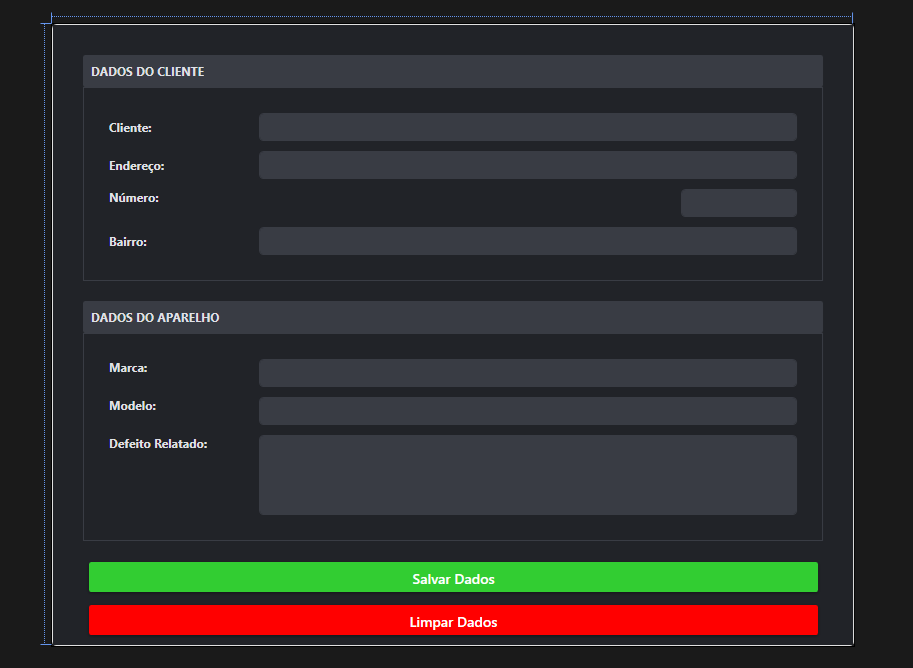
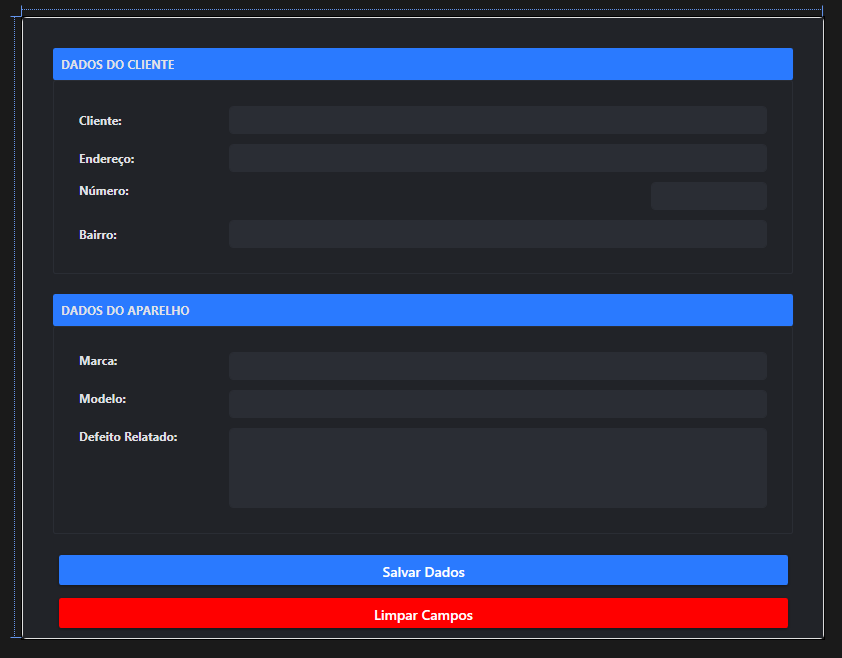
Aprimora visual e UX: cores, textos e limpeza de campos
Atualiza paleta para tons escuros e azul, melhora consistência visual nos backgrounds, bordas e DataGrid. Renomeia e implementa evento de limpeza de campos no Cadastro. Ajusta textos e alinhamento dos botões do menu lateral e colunas do DataGrid. Imagens agora usam Stretch="UniformToFill". Refatora estilos e bordas para maior uniformidade.

diff --git a/Codev_V2/Codev_V2/MainWindow.xaml b/Codev_V2/Codev_V2/MainWindow.xaml
@@ -15,7 +15,7 @@
         mc:Ignorable="d"
         Opacity="10"
         Title="MainWindow" Height="720" Width="1080" Loaded="Window_Loaded">
-    <Border Background="#212328" CornerRadius="10" BorderThickness="1" BorderBrush="#FF393A3A">
+    <Border Background="#212328" CornerRadius="10" BorderThickness="1" BorderBrush="#2A2D34">
         <Grid>
             <Grid.ColumnDefinitions>
                 <ColumnDefinition Width="220"/>
@@ -26,38 +26,39 @@
             <!-- SIDEBAR -->
             <Border Grid.Column="0" Background="#2A7AFF" CornerRadius="10,0,0,10" Margin="-1,-1,1,-1" BorderBrush="#FF220086">
                 <StackPanel Margin="14,184,10,16">
-                    <Button Style="{StaticResource MenuButtonNoHover}" Click="Inicio_Click">
+                    <Button Style="{StaticResource MenuButtonNoHover}" Click="Inicio_Click" Background="{x:Null}">
                         <StackPanel Orientation="Horizontal">
                             <materialDesign:PackIcon Kind="Home" Width="22" Height="22" Foreground="#E0E1E6" Margin="0,0,10,0"/>
-                            <TextBlock Text="Tela Inicial" VerticalAlignment="Center" FontWeight="SemiBold"/>
+                            <TextBlock Text="Página Inicial" VerticalAlignment="Center" FontWeight="SemiBold"/>
                         </StackPanel>
                     </Button>
-                    <Button Style="{StaticResource MenuButtonNoHover}" Click="Conta_Click" Margin="0,8,0,0">
+                    <Button Style="{StaticResource MenuButtonNoHover}" Click="Conta_Click" Margin="0,8,0,0" Background="{x:Null}">
                         <StackPanel Orientation="Horizontal">
                             <materialDesign:PackIcon Kind="Account" Width="22" Height="22" Foreground="#E0E1E6" Margin="0,0,10,0" FontWeight="SemiBold"/>
-                            <TextBlock Text="Cadastrar" VerticalAlignment="Center" FontWeight="SemiBold"/>
+                            <TextBlock Text="Cadastrar Clientes
+                                       " VerticalAlignment="Center" FontWeight="SemiBold" Width="100"/>
                         </StackPanel>
                     </Button>
-                    <Button Style="{StaticResource MenuButtonNoHover}" Click="Clientes_Click" Margin="0,8,0,0">
+                    <Button Style="{StaticResource MenuButtonNoHover}" Click="Clientes_Click" Margin="0,8,0,0" Background="{x:Null}">
                         <StackPanel Orientation="Horizontal">
                             <materialDesign:PackIcon Kind="Store" Width="22" Height="22" Foreground="#E0E1E6" Margin="0,0,10,0" FontWeight="SemiBold"/>
-                            <TextBlock Text="Clientes" VerticalAlignment="Center" FontWeight="SemiBold"/>
+                            <TextBlock Text="Clientes Ativos" VerticalAlignment="Center" FontWeight="SemiBold"/>
                         </StackPanel>
                     </Button>
-                    <Button Style="{StaticResource MenuButtonNoHover}" Click="Sobre_Click" Margin="0,8,0,0">
+                    <Button Style="{StaticResource MenuButtonNoHover}" Click="Sobre_Click" Margin="0,8,0,0" Background="{x:Null}">
                         <StackPanel Orientation="Horizontal">
                             <materialDesign:PackIcon Kind="InformationOutline" Width="22" Height="22" Foreground="#E0E1E6" Margin="0,0,10,0" FontWeight="SemiBold"/>
-                            <TextBlock Text="Sobre" VerticalAlignment="Center" FontWeight="SemiBold"/>
+                            <TextBlock Text="Sobre Nós" VerticalAlignment="Center" FontWeight="SemiBold"/>
                         </StackPanel>
                     </Button>
                 </StackPanel>
             </Border>
-            <Button Grid.Column="1" x:Name="Fechar" Content="✖" HorizontalAlignment="Right" VerticalAlignment="Top" Background="Transparent" BorderBrush="Transparent" Foreground="#6B6C6F" Click="Fechar_Click" Height="50" Width="50" RenderTransformOrigin="-0.475,0.55" Margin="0,-1,-1,0"/>
-            <Image HorizontalAlignment="Left" Height="130" Margin="39,23,0,0" VerticalAlignment="Top" Width="130" Source="/logo_dashbord.png" RenderOptions.BitmapScalingMode="HighQuality" UseLayoutRounding="True"/>
-            <Button Style="{StaticResource MenuButtonNoHover}" Click="Logout_Click" FocusVisualStyle="{x:Null}" Cursor="Hand" Margin="13,659,11,19">
+            <Button Grid.Column="1" x:Name="Fechar" Content="✖" HorizontalAlignment="Right" VerticalAlignment="Top" Background="Transparent" BorderBrush="Transparent" Foreground="#6B6C6F" Click="Fechar_Click" Height="50" Width="50" Margin="0,-1,-1,0"/>
+            <Image HorizontalAlignment="Left" Height="130" Margin="39,23,0,0" VerticalAlignment="Top" Width="130" Source="/logo_dashbord.png" RenderOptions.BitmapScalingMode="HighQuality" Stretch="UniformToFill"/>
+            <Button Style="{StaticResource MenuButtonNoHover}" Click="Logout_Click" FocusVisualStyle="{x:Null}" Cursor="Hand" Margin="13,659,11,19" Background="{x:Null}">
                 <StackPanel Orientation="Horizontal">
                     <materialDesign:PackIcon Kind="Logout" Width="22" Height="22" Foreground="WhiteSmoke" Margin="0,0,10,0"/>
-                    <TextBlock Text="Sair" VerticalAlignment="Center" FontWeight="SemiBold"/>
+                    <TextBlock Text="Logout" VerticalAlignment="Center" FontWeight="SemiBold"/>
                 </StackPanel>
             </Button>
         </Grid>

diff --git a/Codev_V2/Codev_V2/Páginas/Cadastro.xaml b/Codev_V2/Codev_V2/Páginas/Cadastro.xaml
@@ -34,16 +34,16 @@
                     </Grid.RowDefinitions>
                     <!-- Nome -->
                     <TextBlock Text="Cliente:" Grid.Row="0" Grid.Column="0" VerticalAlignment="Center"/>
-                    <hc:TextBox x:Name="Clientes_" Grid.Row="0" Grid.Column="1" BorderBrush="#393C44" Background="#393C44" Foreground="#E0E1E6" CaretBrush="{x:Null}"/>
+                    <hc:TextBox x:Name="Clientes_" Grid.Row="0" Grid.Column="1" BorderBrush="#2A2D34" Background="#2A2D34" Foreground="#E0E1E6" CaretBrush="{x:Null}"/>
                     <!-- Endereço -->
                     <TextBlock Text="Endereço:" Grid.Row="2" Grid.Column="0" VerticalAlignment="Center"/>
-                    <hc:TextBox x:Name="Endereço_" Grid.Row="2" Grid.Column="1" BorderBrush="#393C44" Background="#393C44" Foreground="#E0E1E6" CaretBrush="{x:Null}"/>
+                    <hc:TextBox x:Name="Endereço_" Grid.Row="2" Grid.Column="1" BorderBrush="#2A2D34" Background="#2A2D34" Foreground="#E0E1E6" CaretBrush="{x:Null}"/>
                     <!-- Número -->
                     <TextBlock Text="Número:" Grid.Row="4" Grid.Column="0" VerticalAlignment="Center" Foreground="#E0E1E6"/>
-                    <hc:TextBox  x:Name="Número_" Grid.Row="4" Grid.Column="1" BorderBrush="#393C44" Background="#393C44" Margin="422,0,0,10" Grid.RowSpan="2" Foreground="#E0E1E6" CaretBrush="{x:Null}"/>
+                    <hc:TextBox  x:Name="Número_" Grid.Row="4" Grid.Column="1" BorderBrush="#2A2D34" Background="#2A2D34" Margin="422,0,0,10" Grid.RowSpan="2" Foreground="#E0E1E6" CaretBrush="{x:Null}"/>
                     <!-- Bairro -->
                     <TextBlock Text="Bairro:" Grid.Row="6" Grid.Column="0" VerticalAlignment="Center"/>
-                    <hc:TextBox x:Name="Bairro_" Grid.Row="6" Grid.Column="1" BorderBrush="#393C44" Background="#393C44" Foreground="#E0E1E6" CaretBrush="{x:Null}"/>
+                    <hc:TextBox x:Name="Bairro_" Grid.Row="6" Grid.Column="1" BorderBrush="#2A2D34" Background="#2A2D34" Foreground="#E0E1E6" CaretBrush="{x:Null}"/>
                 </Grid>
             </GroupBox>
             <!-- BLOCO APARELHO -->
@@ -63,17 +63,17 @@
                     </Grid.RowDefinitions>
                     <!-- Marca -->
                     <TextBlock Text="Marca:" Grid.Column="0" VerticalAlignment="Center"/>
-                    <hc:TextBox x:Name="Marca_" Grid.Row="0" Grid.Column="1" BorderBrush="#393C44" Background="#393C44" Grid.ColumnSpan="2" Margin="0,0,0,10" Grid.RowSpan="2" Foreground="#E0E1E6" CaretBrush="{x:Null}"/>
+                    <hc:TextBox x:Name="Marca_" Grid.Row="0" Grid.Column="1" BorderBrush="#2A2D34" Background="#2A2D34" Grid.ColumnSpan="2" Margin="0,0,0,10" Grid.RowSpan="2" Foreground="#E0E1E6" CaretBrush="{x:Null}"/>
                     <!-- Modelo -->
                     <TextBlock Text="Modelo:" Grid.Row="2" Grid.Column="0" VerticalAlignment="Center"/>
-                    <hc:TextBox x:Name="Modelo_" Grid.Row="2" Grid.Column="1" BorderBrush="#393C44" Background="#393C44" Grid.ColumnSpan="2" Margin="0,0,0,10" Grid.RowSpan="2" Foreground="#E0E1E6" CaretBrush="{x:Null}"/>
+                    <hc:TextBox x:Name="Modelo_" Grid.Row="2" Grid.Column="1" BorderBrush="#2A2D34" Background="#2A2D34" Grid.ColumnSpan="2" Margin="0,0,0,10" Grid.RowSpan="2" Foreground="#E0E1E6" CaretBrush="{x:Null}"/>
                     <!-- Defeito -->
                     <TextBlock Text="Defeito Relatado:" Grid.Row="4" Grid.Column="0" VerticalAlignment="Top"/>
-                    <hc:TextBox x:Name="Defeito_" Grid.Row="4" Grid.Column="1" Height="80" AcceptsReturn="True" TextWrapping="Wrap" BorderBrush="#393C44" Background="#393C44" Grid.ColumnSpan="2" Foreground="#E0E1E6" CaretBrush="{x:Null}"/>
+                    <hc:TextBox x:Name="Defeito_" Grid.Row="4" Grid.Column="1" Height="80" AcceptsReturn="True" TextWrapping="Wrap" BorderBrush="#2A2D34" Background="#2A2D34" Grid.ColumnSpan="2" Foreground="#E0E1E6" CaretBrush="{x:Null}"/>
                 </Grid>
             </GroupBox>
-            <Button x:Name="Salvar_" Content="Salvar Dados" VerticalAlignment="Top" Height="30" Background="LimeGreen"  BorderThickness="0,0,0,0" Foreground="White" FontWeight="SemiBold" Margin="6,262,5,0" Grid.Row="2" Click="Salvar__Click"/>
-            <Button x:Name="Limpar_" Content="Limpar Dados" VerticalAlignment="Top" Height="30" Background="Red"  BorderThickness="0,0,0,0" Foreground="White" FontWeight="SemiBold" Margin="6,305,5,0" Grid.Row="2"/>
+            <Button x:Name="Salvar_" Content="Salvar Dados" VerticalAlignment="Top" Height="30" Background="#2A7AFF"  BorderThickness="0,0,0,0" Foreground="White" FontWeight="SemiBold" Margin="6,262,5,0" Grid.Row="2" Click="Salvar__Click"/>
+            <Button x:Name="Limpar_" Content="Limpar Campos" VerticalAlignment="Top" Height="30" Background="Red"  BorderThickness="0,0,0,0" Foreground="White" FontWeight="SemiBold" Margin="6,305,5,0" Grid.Row="2" Click="Limpar__Click"/>
         </Grid>
     </Grid>
 </Page>

diff --git a/Codev_V2/Codev_V2/App.xaml b/Codev_V2/Codev_V2/App.xaml
@@ -12,37 +12,36 @@
                 <Setter Property="BorderThickness" Value="0"/>
                 <Style.Triggers>
                     <Trigger Property="IsSelected" Value="True">
-                        <Setter Property="Background" Value="#2A7AFF"/>
+                        <Setter Property="Background" Value="#393C44"/>
                         <Setter Property="Foreground" Value="White"/>
                     </Trigger>
                 </Style.Triggers>
             </Style>
             <Style TargetType="DataGrid">
-    <Setter Property="Background" Value="#212328"/>
-    <Setter Property="Foreground" Value="#E0E1E6"/>
-    <Setter Property="BorderBrush" Value="#393C44"/>
-    <Setter Property="RowBackground" Value="#212328"/>
-    <Setter Property="AlternatingRowBackground" Value="#2A2D34"/>
-    <Setter Property="GridLinesVisibility" Value="None"/>
-    <Setter Property="HorizontalGridLinesBrush" Value="#393C44"/>
-    <Setter Property="VerticalGridLinesBrush" Value="#393C44"/>
-    <Setter Property="HorizontalContentAlignment" Value="Right"/>
-</Style>
-<Style TargetType="DataGridColumnHeader">
-        <Setter Property="Background" Value="#2A2D34"/>
-        <Setter Property="Foreground" Value="#E0E1E6"/>
-        <Setter Property="BorderBrush" Value="#393C44"/>
-        <Setter Property="FontWeight" Value="SemiBold"/>
-        </Style>
+                <Setter Property="Background" Value="#2A7AFF"/>
+                <Setter Property="Foreground" Value="#E0E1E6"/>
+                <Setter Property="BorderBrush" Value="Transparent"/>
+                <Setter Property="RowBackground" Value="#212328"/>
+                <Setter Property="AlternatingRowBackground" Value="#2A2D34"/>
+                <Setter Property="GridLinesVisibility" Value="None"/>
+                <Setter Property="HorizontalGridLinesBrush" Value="#2A2D34"/>
+                <Setter Property="VerticalGridLinesBrush" Value="#2A2D34"/>
+            </Style>
+            <Style TargetType="DataGridColumnHeader">
+                <Setter Property="Background" Value="#2A7AFF"/>
+                <Setter Property="Foreground" Value="#E0E1E6"/>
+                <Setter Property="BorderBrush" Value="#2A2D34"/>
+                <Setter Property="FontWeight" Value="SemiBold"/>
+            </Style>
             <Style TargetType="DataGridRow">
                 <Setter Property="Background" Value="#212328"/>
                 <Setter Property="Foreground" Value="#E0E1E6"/>
                 <Style.Triggers>
                     <Trigger Property="IsMouseOver" Value="True">
-                        <Setter Property="Background" Value="#2A2D34"/>
+                        <Setter Property="Background" Value="#393C44"/>
                     </Trigger>
                     <Trigger Property="IsMouseOver" Value="True">
-                        <Setter Property="Background" Value="#2A2D34"/>
+                        <Setter Property="Background" Value="#393C44"/>
                     </Trigger>
                     <Trigger Property="IsSelected" Value="True">
                         <Setter Property="Background" Value="#393C44"/>
@@ -63,15 +62,15 @@
                                     <RowDefinition Height="Auto"/>
                                     <RowDefinition Height="*"/>
                                 </Grid.RowDefinitions>
-                                <Border Background="#393C44"
+                                <Border Background="#2A7AFF"
                                 Padding="8"
                                 CornerRadius="2">
                                     <ContentPresenter ContentSource="Header"/>
                                 </Border>
                                 <Border Grid.Row="1"
-                                BorderBrush="#393C44"
+                                BorderBrush="#2A2D34"
                                 BorderThickness="1"
-                                Padding="10">
+                                Padding="10" CornerRadius="2">
                                     <ContentPresenter/>
                                 </Border>
                             </Grid>
@@ -81,6 +80,7 @@
             </Style>
             <!-- Buttons Menu STYLE -->
             <Style x:Key="MenuButtonNoHover" TargetType="Button">
+
                 <Setter Property="Background" Value="Transparent"/>
                 <Setter Property="BorderBrush" Value="Transparent"/>
                 <Setter Property="Foreground" Value="WhiteSmoke"/>

diff --git a/Codev_V2/Codev_V2/LoginWindow.xaml b/Codev_V2/Codev_V2/LoginWindow.xaml
@@ -20,14 +20,14 @@
             <Setter Property="FocusVisualStyle" Value="{x:Null}"/>
         </Style>
     </hc:Window.Resources>
-    <Border Background="#FF222325" CornerRadius="10" BorderThickness="1" BorderBrush="#FF393A3A">
+    <Border Background="#FF222325" CornerRadius="10" BorderThickness="1" BorderBrush="#2A2D34">
         <Grid x:Name="Login" RenderTransformOrigin="0.621,0.821">
-            <hc:TextBox Name="User_" hc:InfoElement.Placeholder="Usuário" HorizontalAlignment="Center" Margin="0,192,0,0" VerticalAlignment="Top" Width="236" Height="30" Background="#393C44" BorderThickness="0,0,0,0" Foreground="#E0E1E6" FontWeight="SemiBold" CaretBrush="{x:Null}"/>
-            <hc:PasswordBox Name="Pass_" hc:InfoElement.Placeholder="Senha" HorizontalAlignment="Center" Margin="0,236,0,0" VerticalAlignment="Top" Width="236" Height="30" Background="#393C44" BorderThickness="0,0,0,0" Foreground="#E0E1E6" FontWeight="SemiBold"/>
+            <hc:TextBox Name="User_" hc:InfoElement.Placeholder="Usuário" HorizontalAlignment="Center" Margin="0,192,0,0" VerticalAlignment="Top" Width="236" Height="30" Background="#2A2D34" BorderThickness="0" Foreground="#E0E1E6" FontWeight="SemiBold" CaretBrush="{x:Null}"/>
+            <hc:PasswordBox Name="Pass_" hc:InfoElement.Placeholder="Senha" HorizontalAlignment="Center" Margin="0,236,0,0" VerticalAlignment="Top" Width="236" Height="30" Background="#2A2D34" BorderThickness="0" Foreground="#E0E1E6" FontWeight="SemiBold"/>
             <Button Content="Login" Margin="81,304,81,0" VerticalAlignment="Top" Width="236" Height="30" Background="#2A7AFF"  BorderThickness="1" Foreground="#E0E1E6" FontWeight="SemiBold" Click="Button_Click" BorderBrush="#2A7AFF"/>
-            <Button x:Name="Fechar" Content="✖" Margin="345,3,0,0" VerticalAlignment="Top" Background="Transparent"   BorderThickness="0,0,0,0" Foreground="#6B6C6F" RenderTransformOrigin="-0.485,1.585" Click="Fechar_Click" Width="50" HorizontalAlignment="Left" Height="50"/>
-            <Image HorizontalAlignment="Left" Height="100" Margin="152,56,0,0" VerticalAlignment="Top" Width="100" Source="/logo_dashbord.png" RenderOptions.BitmapScalingMode="HighQuality" SnapsToDevicePixels="True" UseLayoutRounding="True"/>
-            <ToggleButton x:Name="SalvarLogin" Content="Lembrar Senha?" HorizontalContentAlignment="Right" Margin="81,273,81,151" Foreground="#E0E1E6" FontWeight="SemiBold" Background="#393C44" Height="20" Cursor="" Checked="ToggleButton_Checked" Unchecked="ToggleButton_Unchecked">
+            <Button x:Name="Fechar" Content="✖" Margin="345,3,0,0" VerticalAlignment="Top" Background="Transparent"   BorderThickness="0" Foreground="#6B6C6F" Click="Fechar_Click" Width="50" HorizontalAlignment="Left" Height="50"/>
+            <Image HorizontalAlignment="Left" Height="100" Margin="152,56,0,0" VerticalAlignment="Top" Width="100" Source="/logo_dashbord.png" RenderOptions.BitmapScalingMode="HighQuality" Stretch="UniformToFill"/>
+            <ToggleButton x:Name="SalvarLogin" Content="Lembrar Senha?" HorizontalContentAlignment="Right" Margin="81,273,81,151" Foreground="#E0E1E6" FontWeight="SemiBold" Background="#2A2D34" Height="20" Cursor="" Checked="ToggleButton_Checked" Unchecked="ToggleButton_Unchecked">
                 <ToggleButton.Resources>
                     <SolidColorBrush x:Key="PrimaryBrush" Color="#2A7AFF"/>
                 </ToggleButton.Resources>

diff --git a/Codev_V2/Codev_V2/Páginas/Clientes.xaml b/Codev_V2/Codev_V2/Páginas/Clientes.xaml
@@ -5,14 +5,14 @@
       xmlns:d="http://schemas.microsoft.com/expression/blend/2008" 
       xmlns:local="clr-namespace:Codev_V2.Páginas"
       mc:Ignorable="d" 
-      d:DesignHeight="620" d:DesignWidth="800"
+      d:DesignHeight="620" d:DesignWidth="801"
       Background="#212328"
       Title="Clientes" Loaded="Page_Loaded">
     <Grid>
         <DataGrid x:Name="CodevClientes" Background="#212328" Margin="0,30,0,0" RowHeight="40" SelectionMode="Single" AutoGenerateColumns="False"
          HorizontalAlignment="Stretch" VerticalAlignment="Stretch" BorderThickness="0" ColumnHeaderHeight="40" IsReadOnly="True" HeadersVisibility="Column" RowHeaderWidth="0">
             <DataGrid.Columns>
-                <DataGridTextColumn Header="           ID" Binding="{Binding Id}" Width="80">
+                <DataGridTextColumn Header="         ID" Binding="{Binding Id}" Width="70">
                     <DataGridTextColumn.ElementStyle>
                         <Style TargetType="TextBlock">
                             <Setter Property="VerticalAlignment" Value="Center"/>
@@ -24,6 +24,7 @@
                     <DataGridTextColumn.ElementStyle>
                         <Style TargetType="TextBlock">
                             <Setter Property="VerticalAlignment" Value="Center"/>
+                            <Setter Property="HorizontalAlignment" Value="Left"/>
                         </Style>
                     </DataGridTextColumn.ElementStyle>
                 </DataGridTextColumn>
@@ -31,13 +32,15 @@
                     <DataGridTextColumn.ElementStyle>
                         <Style TargetType="TextBlock">
                             <Setter Property="VerticalAlignment" Value="Center"/>
+                            <Setter Property="HorizontalAlignment" Value="Left"/>
                         </Style>
                     </DataGridTextColumn.ElementStyle>
                 </DataGridTextColumn>
-                <DataGridTextColumn Header="Número" Binding="{Binding Numero}" Width="60">
+                <DataGridTextColumn Header="Número" Binding="{Binding Numero}" Width="65">
                     <DataGridTextColumn.ElementStyle>
                         <Style TargetType="TextBlock">
                             <Setter Property="VerticalAlignment" Value="Center"/>
+                            <Setter Property="HorizontalAlignment" Value="Center"/>
                         </Style>
                     </DataGridTextColumn.ElementStyle>
                 </DataGridTextColumn>

diff --git a/Codev_V2/Codev_V2/Splash.xaml b/Codev_V2/Codev_V2/Splash.xaml
@@ -14,10 +14,10 @@
         WindowStartupLocation="CenterScreen"
         Opacity="10"
         ResizeMode="NoResize" Loaded="Window_Loaded">
-    <Border Background="#212328" CornerRadius="10" BorderThickness="1" BorderBrush="#FF393A3A">
+    <Border Background="#212328" CornerRadius="10" BorderThickness="1" BorderBrush="#2A2D34">
         <Grid>
             <Label HorizontalAlignment="Center" Content="Carregando..." Margin="0,216,0,0" VerticalAlignment="Top" Background="Transparent" FontFamily="Segoe UI Semibold" BorderBrush="Transparent" Foreground="#E0E1E6" FontWeight="Bold"/>
-            <Image HorizontalAlignment="Center" Height="100" VerticalAlignment="Center" Width="100" Source="/logo_dashbord.png" RenderOptions.BitmapScalingMode="HighQuality" SnapsToDevicePixels="True" UseLayoutRounding="True"/>
+            <Image HorizontalAlignment="Center" Height="100" VerticalAlignment="Center" Width="100" Source="/logo_dashbord.png" RenderOptions.BitmapScalingMode="HighQuality" Stretch="UniformToFill"/>
         </Grid>
     </Border>
 </hc:Window>

diff --git a/Codev_V2/Codev_V2/Páginas/Cadastro.xaml.cs b/Codev_V2/Codev_V2/Páginas/Cadastro.xaml.cs
@@ -63,5 +63,14 @@ namespace Codev_V2.Páginas
                 MessageBox.Show("Erro ao cadastrar cliente.", "Erro", MessageBoxButton.OK, MessageBoxImage.Error);
             }
         }
+        private void Limpar__Click(object sender, RoutedEventArgs e)
+        {
+            Clientes_.Text = "";
+            Endereço_.Text = "";
+            Bairro_.Text = "";
+            Número_.Text = "";
+
+            MessageBox.Show("Os campos foram limpos.", "Aviso", MessageBoxButton.OK, MessageBoxImage.Question);
+        }
     }
 }
